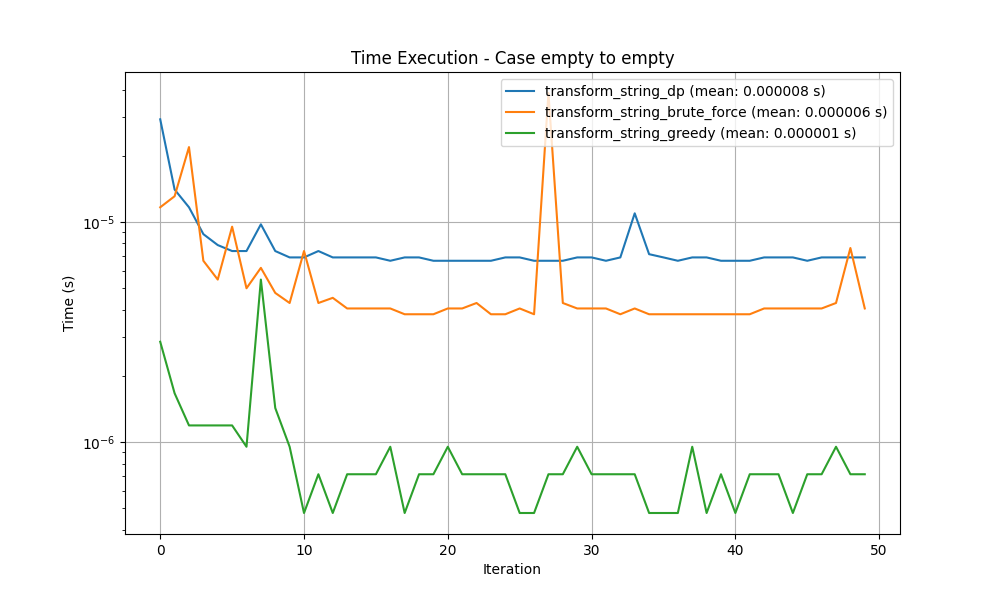
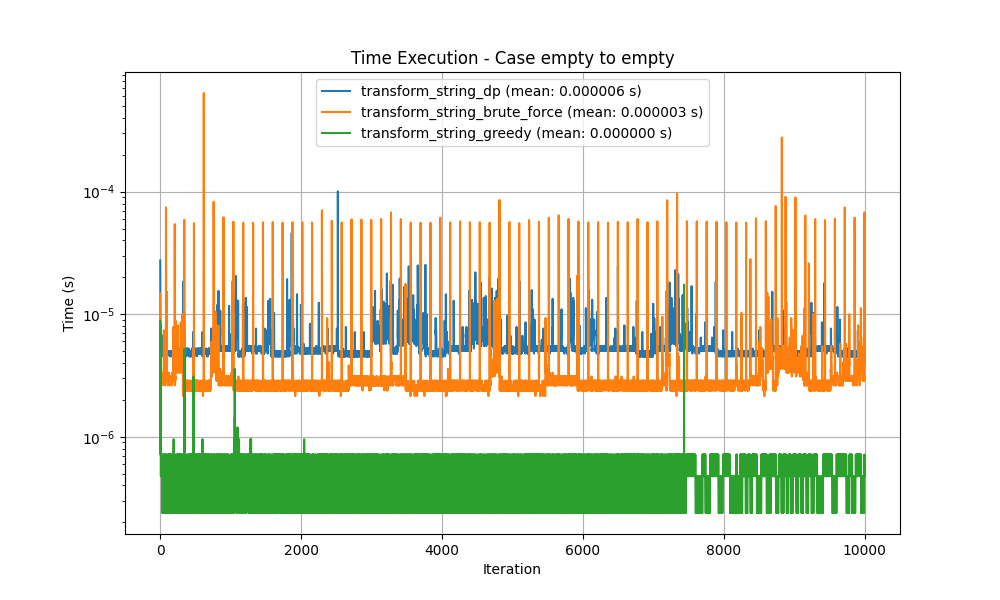
Optimize auction_greedy function and update test cases with new parameters

diff --git a/test/test_benchmark.py b/test/test_benchmark.py
@@ -182,10 +182,10 @@ if __name__ == '__main__':
 
     prefix = args[1] + '_'
         
-    benchmark = Benchmark(num_iterations=50, prefix=prefix)
+    benchmark = Benchmark(num_iterations=1000, prefix=prefix)
     cost = {'advance': 1, 'delete': 2, 'replace': 3, 'insert': 2, 'kill': 1}
-    A = 1000
-    B = 100
+    A = 100
+    B = 10
 
     string_transform_cases = [
         {
@@ -217,38 +217,38 @@ if __name__ == '__main__':
     public_auction_cases = [
         {
             'name': 'Case n = 1',
-            'args': [A, B, 1, [{'price': 500, 'min': 400, 'max': 600},
-                               {'price': 100, 'min': 0, 'max': 1000}]]
+            'args': [A, B, 1, [{'price': 50, 'min': 40, 'max': 60},
+                               {'price': 10, 'min': 0, 'max': 100}]]
         },
         {
             'name': 'Case n = 2',
-            'args': [A, B, 2, [{'price': 450, 'min': 100, 'max': 300},
-                               {'price': 500, 'min': 400, 'max': 600},
-                               {'price': 100, 'min': 0, 'max': 1000}]]
+            'args': [A, B, 2, [{'price': 45, 'min': 10, 'max': 30},
+                               {'price': 50, 'min': 40, 'max': 60},
+                               {'price': 10, 'min': 0, 'max': 100}]]
         },
         {
             'name': 'Case n = 3',
-            'args': [A, B, 3, [{'price': 450, 'min': 100, 'max': 300},
-                               {'price': 400, 'min': 100, 'max': 200},
-                               {'price': 500, 'min': 400, 'max': 600},
-                               {'price': 100, 'min': 0, 'max': 1000}]]
+            'args': [A, B, 3, [{'price': 45, 'min': 10, 'max': 30},
+                               {'price': 40, 'min': 10, 'max': 20},
+                               {'price': 50, 'min': 40, 'max': 60},
+                               {'price': 10, 'min': 0, 'max': 100}]]
         },
         {
             'name': 'Case n = 4',
-            'args': [A, B, 4, [{'price': 500, 'min': 400, 'max': 600}, 
-                               {'price': 200, 'min': 50, 'max': 100}, 
-                               {'price': 400, 'min': 100, 'max': 200}, 
-                               {'price': 450, 'min': 100, 'max': 300}, 
-                               {'price': 100, 'min': 0, 'max': 1000}]]
+            'args': [A, B, 4, [{'price': 50, 'min': 40, 'max': 60}, 
+                               {'price': 20, 'min': 5, 'max': 10}, 
+                               {'price': 40, 'min': 10, 'max': 20}, 
+                               {'price': 45, 'min': 10, 'max': 30}, 
+                               {'price': 10, 'min': 0, 'max': 100}]]
         },
         {
             'name': 'Case n = 5',
-            'args': [A, B, 5, [{'price': 500, 'min': 400, 'max': 600},
-                               {'price': 200, 'min': 50, 'max': 100},
-                               {'price': 400, 'min': 100, 'max': 200},
-                               {'price': 450, 'min': 100, 'max': 300},
-                               {'price': 150, 'min': 0, 'max': 100},
-                               {'price': 100, 'min': 0, 'max': 1000}]]
+            'args': [A, B, 5, [{'price': 50, 'min': 40, 'max': 60},
+                               {'price': 20, 'min': 5, 'max': 10},
+                               {'price': 40, 'min': 10, 'max': 20},
+                               {'price': 45, 'min': 10, 'max': 30},
+                               {'price': 15, 'min': 0, 'max': 10},
+                               {'price': 10, 'min': 0, 'max': 100}]]
         }
     ]
 
@@ -267,7 +267,7 @@ if __name__ == '__main__':
             m = max(offer['max'] for offer in case ['args'][3])
             benchmark.add_function(auction_dp, case, theoretical_complexity=n * (A ** 2))
             benchmark.add_function(auction_brute_force, case, theoretical_complexity=n * (m ** n))
-            benchmark.add_function(auction_greedy, case, theoretical_complexity=n * (math.log(n)))
+            benchmark.add_function(auction_greedy, case, theoretical_complexity=n * (math.log(n)  if n > 1 else n ))
 
         
 

diff --git a/adjust_and_graph_times.py b/adjust_and_graph_times.py
@@ -55,7 +55,7 @@ if __name__ == '__main__':
     complexity_functions_public_auction = {
         'auction_dp' : lambda n_A2, a, b: a * n_A2 + b,
         'auction_brute_force' : lambda nm_n, a, b: a * nm_n + b,
-        'auction_greedy' : lambda n, a, b: a * np.where(n > 0, n * np.log(n), 0) + b,
+        'auction_greedy' : lambda n, a, b: a * np.log(n) + b,
     }
 
 
